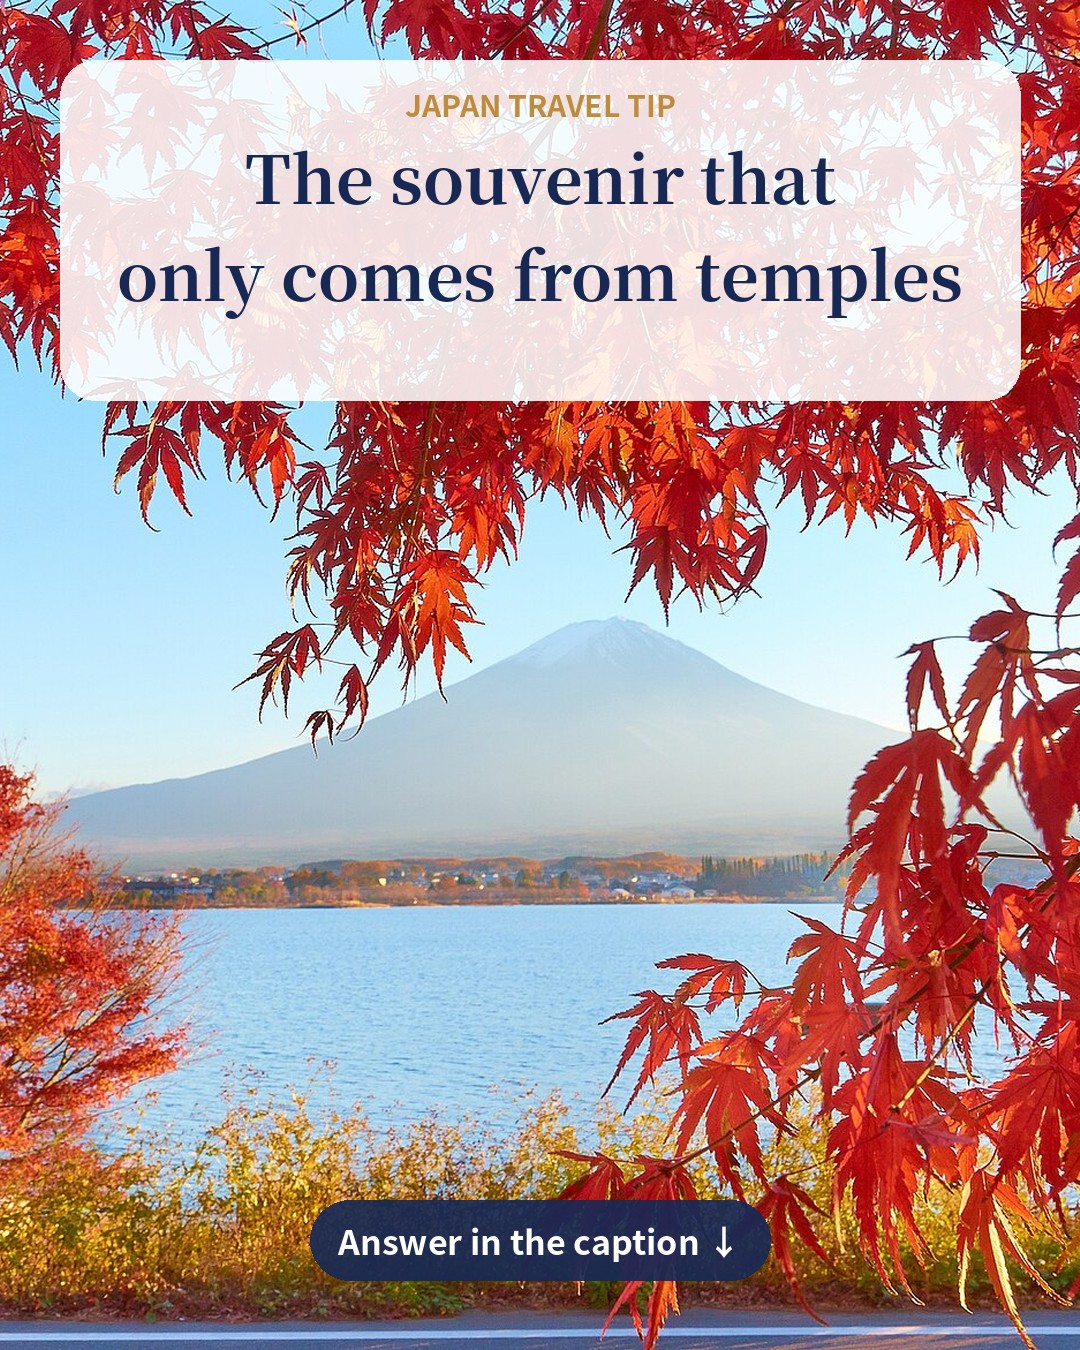
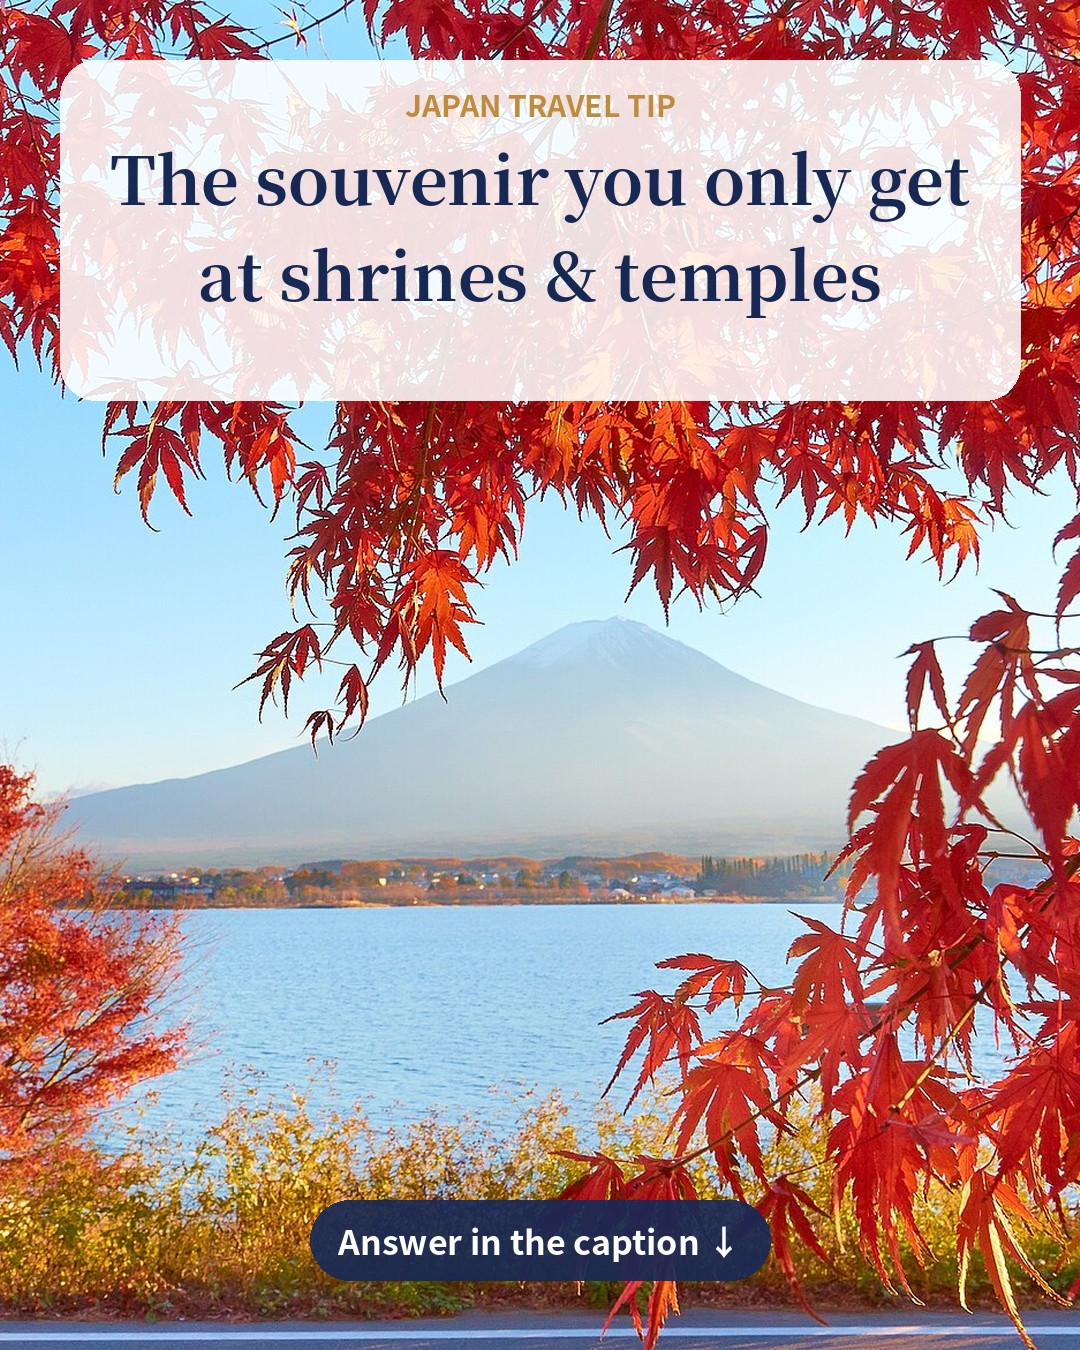
Tip cards: wording fixes
Claude-Session: https://claude.ai/code/session_01WnJ4nQwKwTg9nXnxGo86LL

Changed region(s): [[0.0917, 0.0933, 0.9167, 0.2489]]

diff --git a/ig/sx/am.py b/ig/sx/am.py
@@ -17,14 +17,14 @@ TIPS=[
   "2 bows, 2 claps… then what? 🙏\n\nAt most shrines in Japan, the basic way to pray is:\n1. Bow deeply twice\n2. Clap twice\n3. Put your hands together and make your wish\n4. Bow once more\n\nA few shrines have their own style (Izumo Taisha, for example, uses four claps), so follow any sign you see.\n\nSave this for your trip 📌"),
  ('11-17','cm-w0-nara','Why do locals avoid\nthe middle of the path?',
   "Why do locals walk on the side of the path? 🚶\n\nAt shrines, the center of the approach path is traditionally said to be the way of the kami (the gods). Many visitors walk a little to the left or right as a sign of respect, and bow lightly when passing through the torii gate.\n\nNobody will scold you, but it's a nice way to visit like a local.\n\nSave this for your trip 📌"),
- ('11-18','cm-sat-fuji3','The souvenir that\nonly comes from temples',
+ ('11-18','cm-sat-fuji3','The souvenir you only get\nat shrines & temples',
   "The souvenir you can only get at shrines and temples ✍\n\nIt's called goshuin: a hand-written ink seal that proves your visit. Bring a goshuin-cho (a small accordion-style book, often sold right there) and ask at the shrine office. It usually costs a few hundred yen.\n\nRemember: it's a record of prayer, so visit and pray first, then ask for the seal.\n\nSave this for your trip 📌"),
  ('11-19','cm-w0-arashiyama2','Got bad luck on your\nfortune slip? Do this',
   "Drew bad luck on your omikuji? Don't worry 📜\n\nOmikuji are paper fortunes sold at shrines and temples. If yours says bad luck, many people tie it to the special rack or rope at the shrine, leaving the bad luck behind.\n\nGood fortune? You can keep it in your wallet as a little reminder.\n\nSave this for your trip 📌"),
  ('11-20','cm-w0-nara2','Why the 5-yen coin\nis the favorite offering',
   "Why do so many people offer a 5-yen coin? 🪙\n\nIn Japanese, 5 yen is \"go-en\", which sounds the same as \"go-en\" meaning a fortunate connection or bond. So a 5-yen coin in the offering box is a small wish for good connections — with people, luck and the place itself.\n\nAny amount is fine, but now you know the story.\n\nSave this for your trip 📌"),
  ('11-21','cm-w0-arashiyama','When is the best time\nfor autumn leaves in Kyoto?',
-  "When do Kyoto's autumn leaves peak? 🍁\n\nIn a typical year, the colors in Kyoto are at their best from late November to early December. Places like Arashiyama get very busy, so go early in the morning for quieter paths and soft light.\n\nPlanning for next year? Mark late November on your calendar.\n\nSave this for your trip 📌"),
+  "When do Kyoto's autumn leaves peak? 🍁\n\nIn a typical year, the colors in Kyoto are at their best from late November to early December. Places like Arashiyama get very busy, so go early in the morning for quieter paths and soft light.\n\nIn Kyoto this week? You're right in the season.\n\nSave this for your trip 📌"),
  ('11-22','cm-wed-ginkgo','Which power spot\nin Japan suits you?',
   "Which power spot in Japan suits you? ⛩\n\nWe made a free site to find out. Pick your wish (love, money, health or work), enter your birthday and where you're staying, and you'll get shrines, temples, sacred trees, waterfalls and mountains that match you.\n\nFree. No sign-up.\n\n👉 Link in bio"),
 ]
